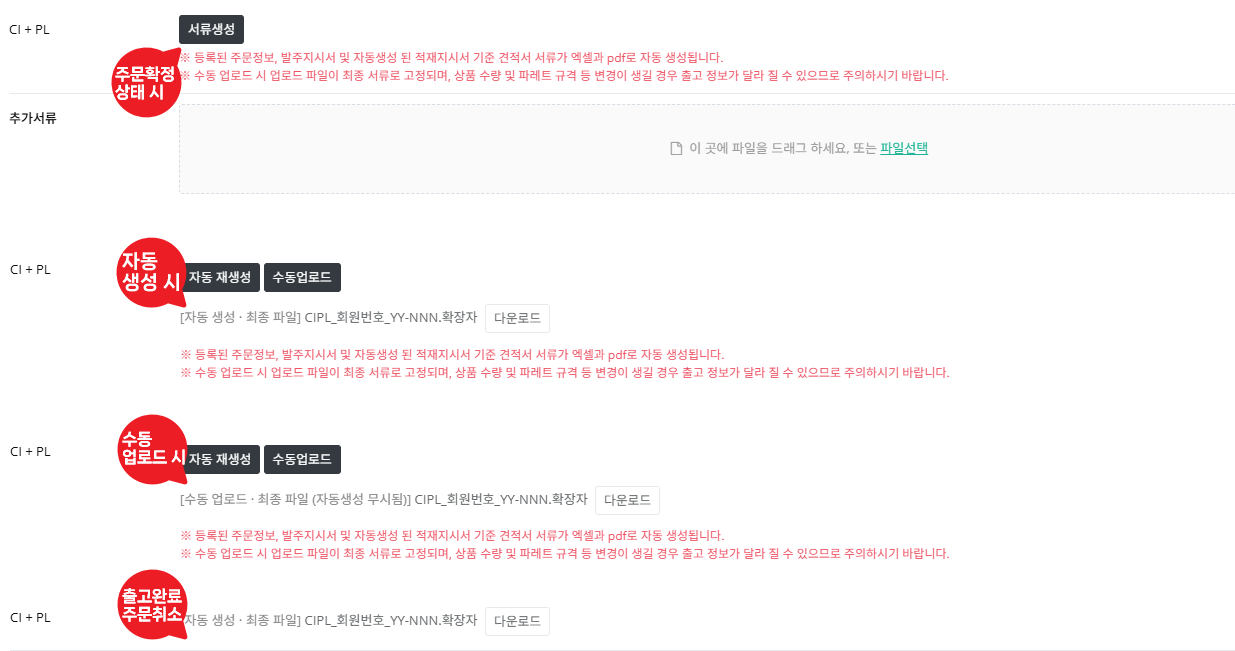
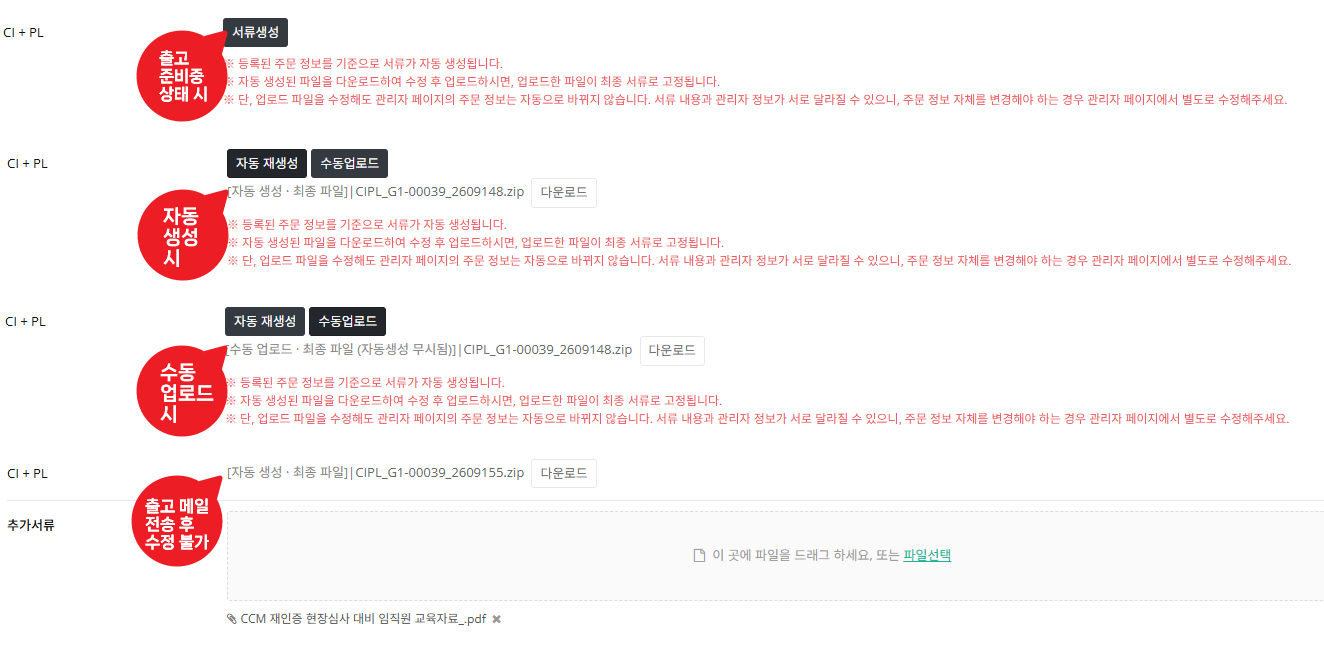
견적·주문 서류 안내 수정: 출고동봉서류 생성 시점, 저장 후 재생성·자동 초기화 기준, order_doc_generate 이미지 교체

diff --git a/pages/order.html b/pages/order.html
@@ -207,7 +207,9 @@
     <div class="step" id="doc-gen">
       <h2><span class="step-no">6</span> 서류 생성 안내 — CI/PL · 인수증 · 추가서류</h2>
       <p>서류 정보 탭에서 생성하는 서류는 <b>CI+PL, 인수증, 추가서류</b> 세 가지이며, 각각 노출·필수 조건과 생성 방식이 다릅니다.</p>
-      <div class="warn"><b>주의.</b> 자동 생성·수동 업로드 방식인 <b>CI+PL·인수증은 주문 상태가 "출고준비중"으로 전환된 이후에만 노출</b>됩니다. <b>추가서류는 이와 무관하게 상태와 관계없이 언제든 등록</b>할 수 있습니다.</div>
+      <div class="warn"><b>주의.</b> 출고동봉서류는 견적·주문 <b>어떤 단계에서든 선택</b>할 수 있지만, 품목이 다 완성되고 나서 출고 직전에 만드는
+        <b>CI+PL과 인수증 서류(엑셀/PDF)는 주문 정보 변경이 불가능한 [출고준비중] 상태 이후부터 생성</b>할 수 있습니다 (그 전에는 서류 정보 탭에 항목 자체가 노출되지 않습니다).
+        <b>추가서류는 이와 무관하게 상태와 관계없이 언제든 등록</b>할 수 있습니다.</div>
 
       <h4>CI+PL</h4>
       <table>
@@ -228,13 +230,39 @@
       <table>
         <tr><th>서류생성 (자동)</th><td>필수 입력값이 모두 채워졌는지 확인한 뒤 버튼을 누르면 화면 입력값 기준으로 자동 생성됩니다. 생성 후에는 <b>재생성 / 수동업로드</b> 버튼이 함께 노출됩니다.</td></tr>
         <tr><th>수동업로드</th><td>디바이스에서 파일을 선택해 직접 올릴 수 있으며, <b>엑셀 파일만 업로드 가능</b>합니다 (엑셀 외 파일은 업로드 불가 안내). 업로드한 파일이 <b>최종 서류로 고정</b>되고, 등록한 엑셀 파일 기준으로 PDF도 자동 변환되어 함께 제공됩니다.</td></tr>
-        <tr><th>자동 재생성</th><td>클릭 시 <b>최종 품목 정보 기준으로 다시 자동 생성</b>됩니다 (수동업로드로 대체했던 경우에도 재생성 가능).</td></tr>
+        <tr><th>자동 재생성</th><td>클릭 시 <b>마지막으로 저장된 관리자 정보 기준으로 다시 자동 생성</b>됩니다 (수동업로드로 대체했던 경우에도 재생성 가능).</td></tr>
         <tr><th>제공 형식</th><td>생성된 서류는 <b>엑셀(xlsx), PDF</b> 두 가지 형식으로 함께 제공됩니다.</td></tr>
         <tr><th>추가서류</th><td><b>선택 입력</b> 항목입니다. 여러 파일을 한 번에 드래그로 등록할 수 있고, 등록된 파일은 파일명 기준 가나다순으로 정렬되며 X 클릭 시 바로 삭제됩니다.
           등록하지 않아도 발주·출고 진행에는 문제가 없습니다. 단, <b>주문취소 상태</b>가 되면 등록된 파일은 조회만 가능하며 추가 등록·삭제는 할 수 없습니다.</td></tr>
       </table>
       <div class="caution">
-        <b>가장 놓치기 쉬운 부분.</b> 서류를 생성한 뒤 품목 정보(수량·단가 등)를 수정하면 <b>서류가 자동으로 미생성 상태로 초기화</b>됩니다. 발주 전 반드시 재생성해주세요.
+        <b>가장 놓치기 쉬운 부분 — 서류에 포함되는 정보를 수정·저장하면 서류가 자동 초기화됩니다.</b><br>
+        CI+PL·인수증을 생성한 뒤 <b>서류에 들어가는 정보</b>(품목 정보, 출고동봉서류 선택, 수출자·수입자, 출고·운송, 포장·가격, 거래처 정보 등)를 수정하고 <b>저장</b>하면,
+        생성된 서류가 <b>자동으로 미생성 상태로 초기화</b>됩니다. <b>수동 업로드한 파일도 함께 초기화</b>되니, 발주요청 메일발송 전 반드시 다시 생성해주세요.
+      </div>
+
+      <h4>서류 기준 정보와 수동 업로드 시 주의 — 업로드 파일은 관리자 정보에 반영되지 않습니다</h4>
+      <p>자동 생성 서류는 <b>생성 버튼을 누른 시점에 저장되어 있는</b> 관리자 정보를 기준으로 만들어집니다. 서류마다 기준이 되는 정보가 다르니 아래 표를 확인해주세요.</p>
+      <table>
+        <tr><th>CI+PL</th><td>등록된 <b>주문 정보</b>를 기준으로 자동 생성됩니다.</td></tr>
+        <tr><th>인수증</th><td>등록된 주문 정보의 <b>거래처 정보</b>를 기준으로 서류(엑셀)가 자동 생성됩니다.</td></tr>
+        <tr><th>수동 업로드 시</th><td>자동 생성된 파일을 다운로드해 수정한 뒤 업로드하면, <b>업로드한 파일이 최종 서류로 고정</b>됩니다.
+          단, 업로드한 파일을 수정해도 <b>관리자 페이지의 주문 정보(CI+PL) / 거래처 정보(인수증)는 자동으로 바뀌지 않습니다.</b>
+          서류 내용과 관리자 정보가 서로 달라질 수 있으니, 정보 자체를 바꿔야 하는 경우에는 관리자 페이지(주문 상세 / <a href="partner.html">거래처관리</a>)에서 별도로 수정해주세요.</td></tr>
+      </table>
+      <div class="caution">
+        <b>반드시 기억하세요 — ① 관리자 정보는 수정 후 반드시 "저장", ② 저장 후 서류 다시 생성</b><br>
+        <b>① 저장해야 최종 적용됩니다.</b> 주문 상세든 <a href="partner.html">거래처관리</a> 화면이든, 관리자 페이지 <b>어디에서 정보를 수정하든 반드시 "저장" 버튼을 눌러야</b> 최종 반영됩니다.
+        화면에서 값만 바꾸고 저장하지 않은 채 서류를 생성하면, <b>저장되기 전(수정 전) 정보로 서류가 만들어집니다.</b><br><br>
+        <b>② 서류는 "저장 → 다시 생성"을 거쳐야만 최신 정보로 바뀝니다.</b>
+        <ul>
+          <li><b>서류 → 관리자</b> : 업로드한 엑셀에서 고친 내용은 관리자 페이지에 반영되지 않습니다.</li>
+          <li><b>관리자 → 서류</b> : 서류에 포함되는 정보를 수정·<b>저장</b>하면 서류가 자동 초기화되어, 다시 생성해야만 수정한 내용이 서류에 반영됩니다.
+            저장하지 않으면 초기화도, 반영도 되지 않습니다.</li>
+        </ul>
+        따라서 정보를 수정했다면 <b>① 저장 → ② 서류 다시 생성</b> 순서를 발주요청 메일발송 전에 반드시 지켜주세요.
+        수동 업로드가 필요한 경우에는 <b>모든 정보 수정·저장을 먼저 끝낸 뒤 → 서류 생성 → 최신 파일 다운로드 → 수정 → 업로드</b> 순서로 진행해주세요.
+        업로드 후에 정보를 또 수정·저장하면 업로드한 파일이 초기화되어 처음부터 다시 해야 합니다.
       </div>
     </div>
 
@@ -290,6 +318,18 @@
 
       <div class="q">Q. 서류생성 버튼을 눌렀는데 "발주요청이 불가능합니다"라고 나와요.</div>
       <div class="a">CI·PL 서류가 아직 생성되지 않은 상태입니다. 서류 정보 탭에서 먼저 서류를 생성해주세요.</div>
+
+      <div class="q">Q. 주문확정 상태인데 서류 정보 탭에 CI+PL·인수증 생성 버튼이 안 보여요.</div>
+      <div class="a">정상입니다. CI+PL과 인수증은 주문 정보 변경이 불가능한 <b>[출고준비중] 상태 이후부터</b> 생성할 수 있습니다. 출고동봉서류 선택은 그 전 단계에서도 가능합니다.</div>
+
+      <div class="q">Q. 수동 업로드한 CI+PL 파일이 사라지고 미생성 상태가 됐어요.</div>
+      <div class="a">업로드 이후 서류에 포함되는 정보(주문 정보·거래처 정보 등)를 수정·저장하면 업로드 파일도 자동 초기화됩니다. 서류를 다시 생성한 뒤 최신 파일을 다운로드해 수정·업로드해주세요. 업로드는 모든 정보 수정을 마친 <b>마지막 단계</b>에 하는 것이 좋습니다.</div>
+
+      <div class="q">Q. 정보를 고치고 바로 재생성했는데 서류에 예전 값이 나와요.</div>
+      <div class="a">수정한 뒤 <b>"저장"</b>을 누르지 않은 경우입니다. 저장하지 않은 값은 최종 적용되지 않아 서류 초기화도, 반영도 되지 않습니다. 저장 후 다시 생성해주세요. 거래처 정보는 <a href="partner.html">거래처관리</a> 화면에서 저장해야 합니다.</div>
+
+      <div class="q">Q. 업로드한 CI+PL 엑셀에서 수량을 고쳤는데 관리자 화면 수량은 그대로예요.</div>
+      <div class="a">업로드 파일의 내용은 관리자 페이지로 반영되지 않습니다. 서류와 관리자 정보가 달라지지 않도록, 주문 정보 자체를 바꿔야 하는 경우에는 관리자 페이지에서 별도로 수정한 뒤 서류를 다시 생성해주세요.</div>
 
       <div class="q">Q. 일반 담당자인데 출고준비중 상태의 주문을 취소하고 싶어요.</div>
       <div class="a">출고준비중 상태부터는 무역팀·영업관리팀만 취소할 수 있습니다. 해당 담당자에게 요청해주세요.</div>

diff --git a/pages/quote.html b/pages/quote.html
@@ -128,6 +128,12 @@
         경고가 뜹니다. 강제로 막는 것은 아니지만, 확인 없이 그냥 넘기면 실제 물류 처리 시간이 부족할 수 있으니 무역팀과 사전 협의가 필요합니다.
         인코텀즈(FOB/FCA/EXW/DAP/DDP 등)를 선택하면 옆의 입력란이 필수로 바뀌며, 종류에 따라 입력해야 하는 내용(선적항 vs 지정장소 vs 수취인 주소)이 다르므로 헷갈리지 않도록 주의하세요.
       </div>
+      <div class="tip">
+        <b>Tip. 출고동봉서류</b>는 견적·주문 <b>어떤 단계에서든 선택</b>할 수 있습니다. 다만 여기서 선택한 서류 중
+        <b>CI+PL과 인수증(엑셀/PDF)</b>은 품목이 모두 확정된 뒤 출고 직전에 만드는 서류이므로,
+        견적 단계에서는 생성되지 않고 주문 정보 변경이 불가능한 <b>[출고준비중] 상태 이후부터</b> 주문 상세에서 생성할 수 있습니다.
+        (자세한 내용은 <a href="order.html#doc-gen">주문관리 페이지 서류 생성 안내</a> 참고)
+      </div>
 
       <h4>품목 정보 — 품목분류·카톤 입수 안내</h4>
       <div class="shot"><img src="../assets/img/quote_detail_item.png" alt="견적 상세 - 품목정보, 품목분류 열 강조"></div>
@@ -154,13 +160,18 @@
       </div>
       <table>
         <tr><th>자동 생성</th><td>기본정보·품목정보 등 화면에 이미 입력된 값을 기준으로 서류가 자동 생성됩니다.</td></tr>
-        <tr><th>수동 업로드</th><td>필요한 경우 직접 작성한 서류 파일을 업로드할 수 있으며, 이때는 <b>업로드한 파일이 최종 서류 내용</b>이 됩니다. <b>엑셀 파일만 업로드 가능</b>합니다.</td></tr>
+        <tr><th>수동 업로드</th><td>필요한 경우 직접 작성한 서류 파일을 업로드할 수 있으며, 이때는 <b>업로드한 파일이 최종 서류 내용</b>이 됩니다. <b>엑셀 파일만 업로드 가능</b>합니다. 단, 업로드 후 서류에 포함되는 정보를 수정·저장하면 업로드 파일도 초기화됩니다.</td></tr>
         <tr><th>제공 형식</th><td>생성된 서류는 <b>엑셀(xlsx), PDF</b> 두 가지 형식으로 함께 제공됩니다.</td></tr>
         <tr><th>추가서류</th><td><b>선택 입력</b> 항목입니다. 필요한 경우에만 등록하면 되며, 등록하지 않아도 견적·주문 진행에는 문제가 없습니다.</td></tr>
       </table>
       <div class="caution">
-        <b>가장 놓치기 쉬운 부분.</b> 품목 정보(수량·단가 등)를 수정하면 이미 생성해둔 <b>PI 서류가 자동으로 미생성 상태로 초기화</b>됩니다.
-        수량을 나중에 고쳤다면 반드시 <b>서류를 다시 생성</b>한 뒤 발송해야 정보 불일치를 막을 수 있습니다.
+        <b>가장 놓치기 쉬운 부분 — 서류에 포함되는 정보를 수정·저장하면 PI 서류가 자동 초기화됩니다.</b><br>
+        PI를 생성한 뒤 <b>서류에 들어가는 정보</b>(품목 정보, 출고동봉서류 선택, 수출자·수입자, 출고·운송, 포장·가격, 거래처 정보 등)를 수정하고 <b>저장</b>하면,
+        생성된 PI가 <b>자동으로 미생성 상태로 초기화</b>됩니다. <b>수동 업로드한 파일도 함께 초기화</b>되니, 발송 전 반드시 다시 생성해주세요.<br><br>
+        <b>반드시 "① 저장 → ② 서류 다시 생성" 순서를 지켜주세요.</b> 관리자 페이지 어디에서 수정하든(거래처 정보는 <a href="partner.html">거래처관리</a> 화면)
+        <b>저장을 누르지 않으면 최종 적용되지 않아</b>, 초기화도 되지 않고 서류에도 반영되지 않습니다.
+        또한 업로드한 엑셀에서 고친 내용은 관리자 페이지에 반영되지 않으니, 정보 자체를 바꿔야 하면 관리자 페이지에서 수정·저장해주세요.
+        수동 업로드가 필요하다면 <b>모든 정보 수정·저장을 끝낸 뒤 → 서류 생성 → 최신 파일 다운로드 → 수정 → 업로드</b> 순서로, 업로드는 마지막 단계에 진행해주세요.
       </div>
     </div>
 
@@ -212,7 +223,7 @@
       <div class="a">관리자 등록 건은 "관리자 검토" 단계 없이 등록 즉시 "거래처 검토" 상태가 되기 때문입니다. (front 오픈 전인 현재는 화면상 상태만 바뀔 뿐 거래처가 직접 보는 것은 아니므로, 필요하면 담당자가 별도로 안내해주세요.)</div>
 
       <div class="q">Q. 품목 수량을 고쳤는데 예전 PI 파일이 그대로 발송됐어요.</div>
-      <div class="a">품목정보를 수정하면 PI 서류가 자동으로 초기화됩니다. 서류 정보 탭에서 반드시 재생성 후 발송해주세요.</div>
+      <div class="a">서류에 포함되는 정보(품목정보 등)를 수정·저장하면 PI 서류가 자동으로 초기화됩니다. 서류 정보 탭에서 반드시 다시 생성한 뒤 발송해주세요. 수정 후 <b>저장</b>을 누르지 않았다면 서류에 반영되지 않으니 저장 여부도 확인해주세요.</div>
 
       <div class="q">Q. 거절을 잘못 눌렀어요. 되돌릴 수 있나요?</div>
       <div class="a">되돌릴 수 없습니다. 목록의 "복사" 기능으로 동일한 내용의 견적을 새로 등록해 다시 진행해야 합니다.</div>

diff --git a/index.html b/index.html
@@ -16,7 +16,7 @@
       <span class="tag">운영 매뉴얼 · v1.0</span>
       <h1>해외 B2B 관리자 사용 매뉴얼</h1>
       <div class="meta">
-        <span class="reveal-after">관리자 접속 주소 : globaladm.nutrione.co.kr &nbsp;·&nbsp; </span>최종 업데이트 : 2026-09-21
+        <span class="reveal-after">관리자 접속 주소 : globaladm.nutrione.co.kr &nbsp;·&nbsp; </span>최종 업데이트 : 2026-09-23
       </div>
     </div>
 
